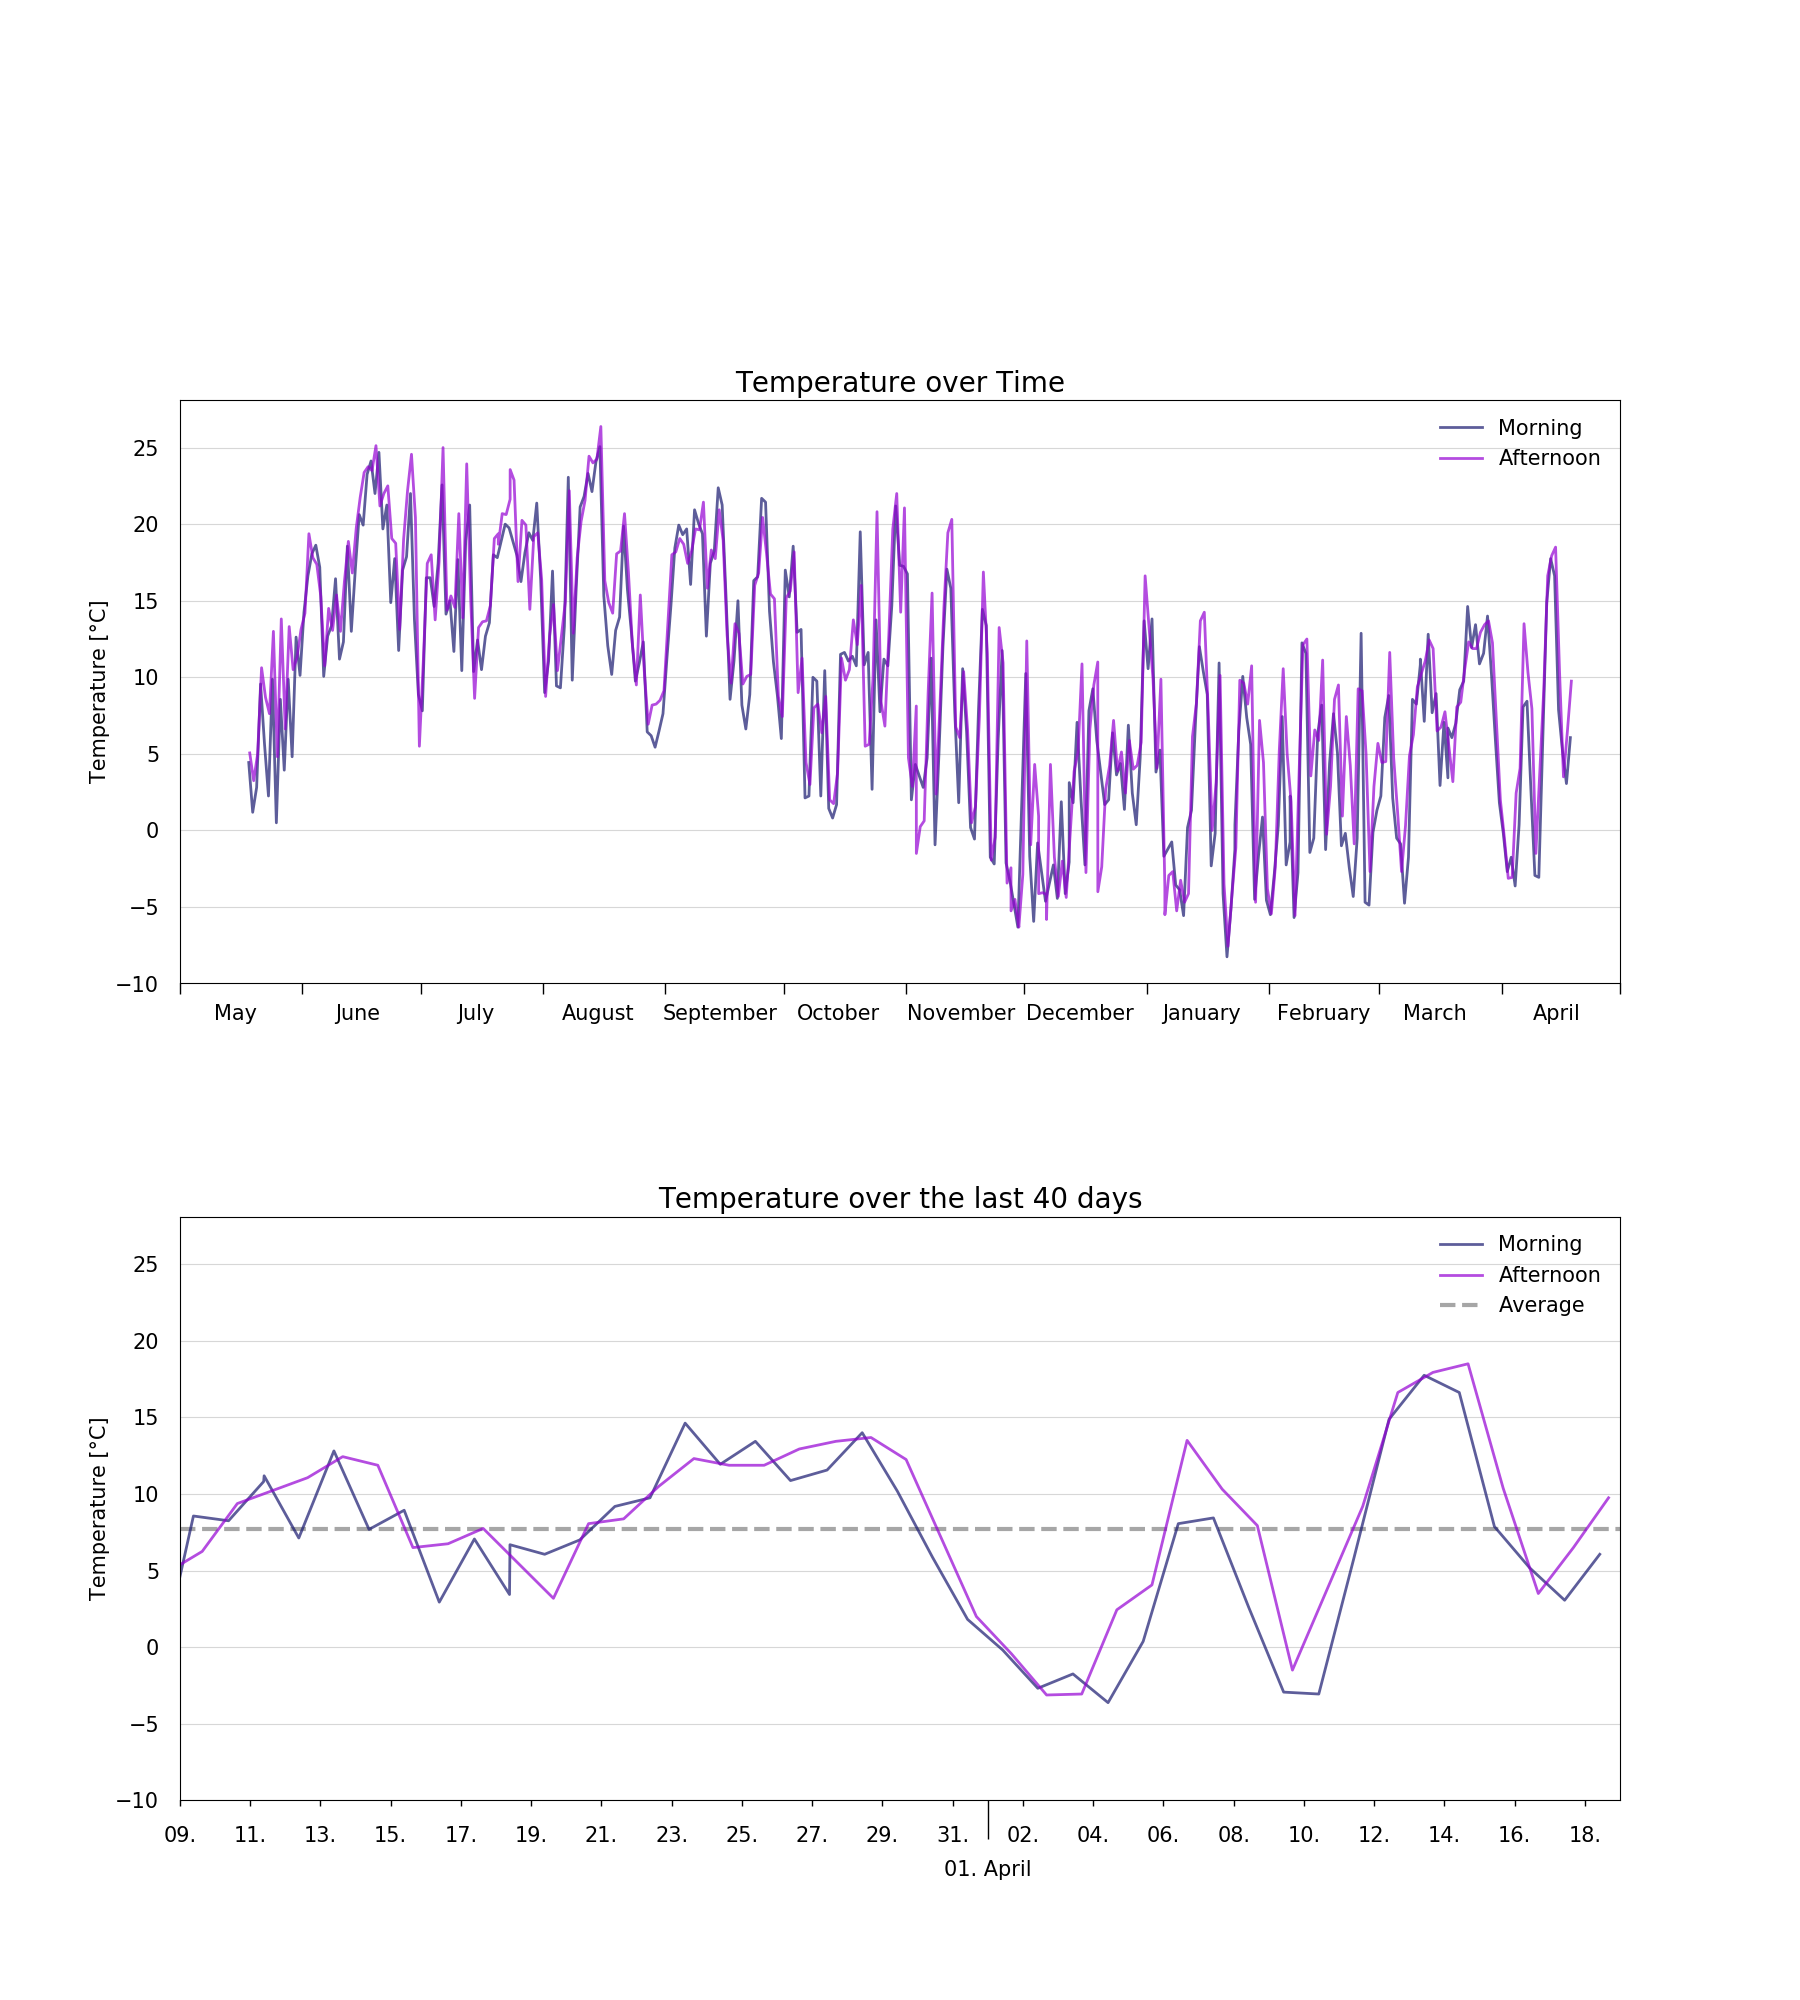
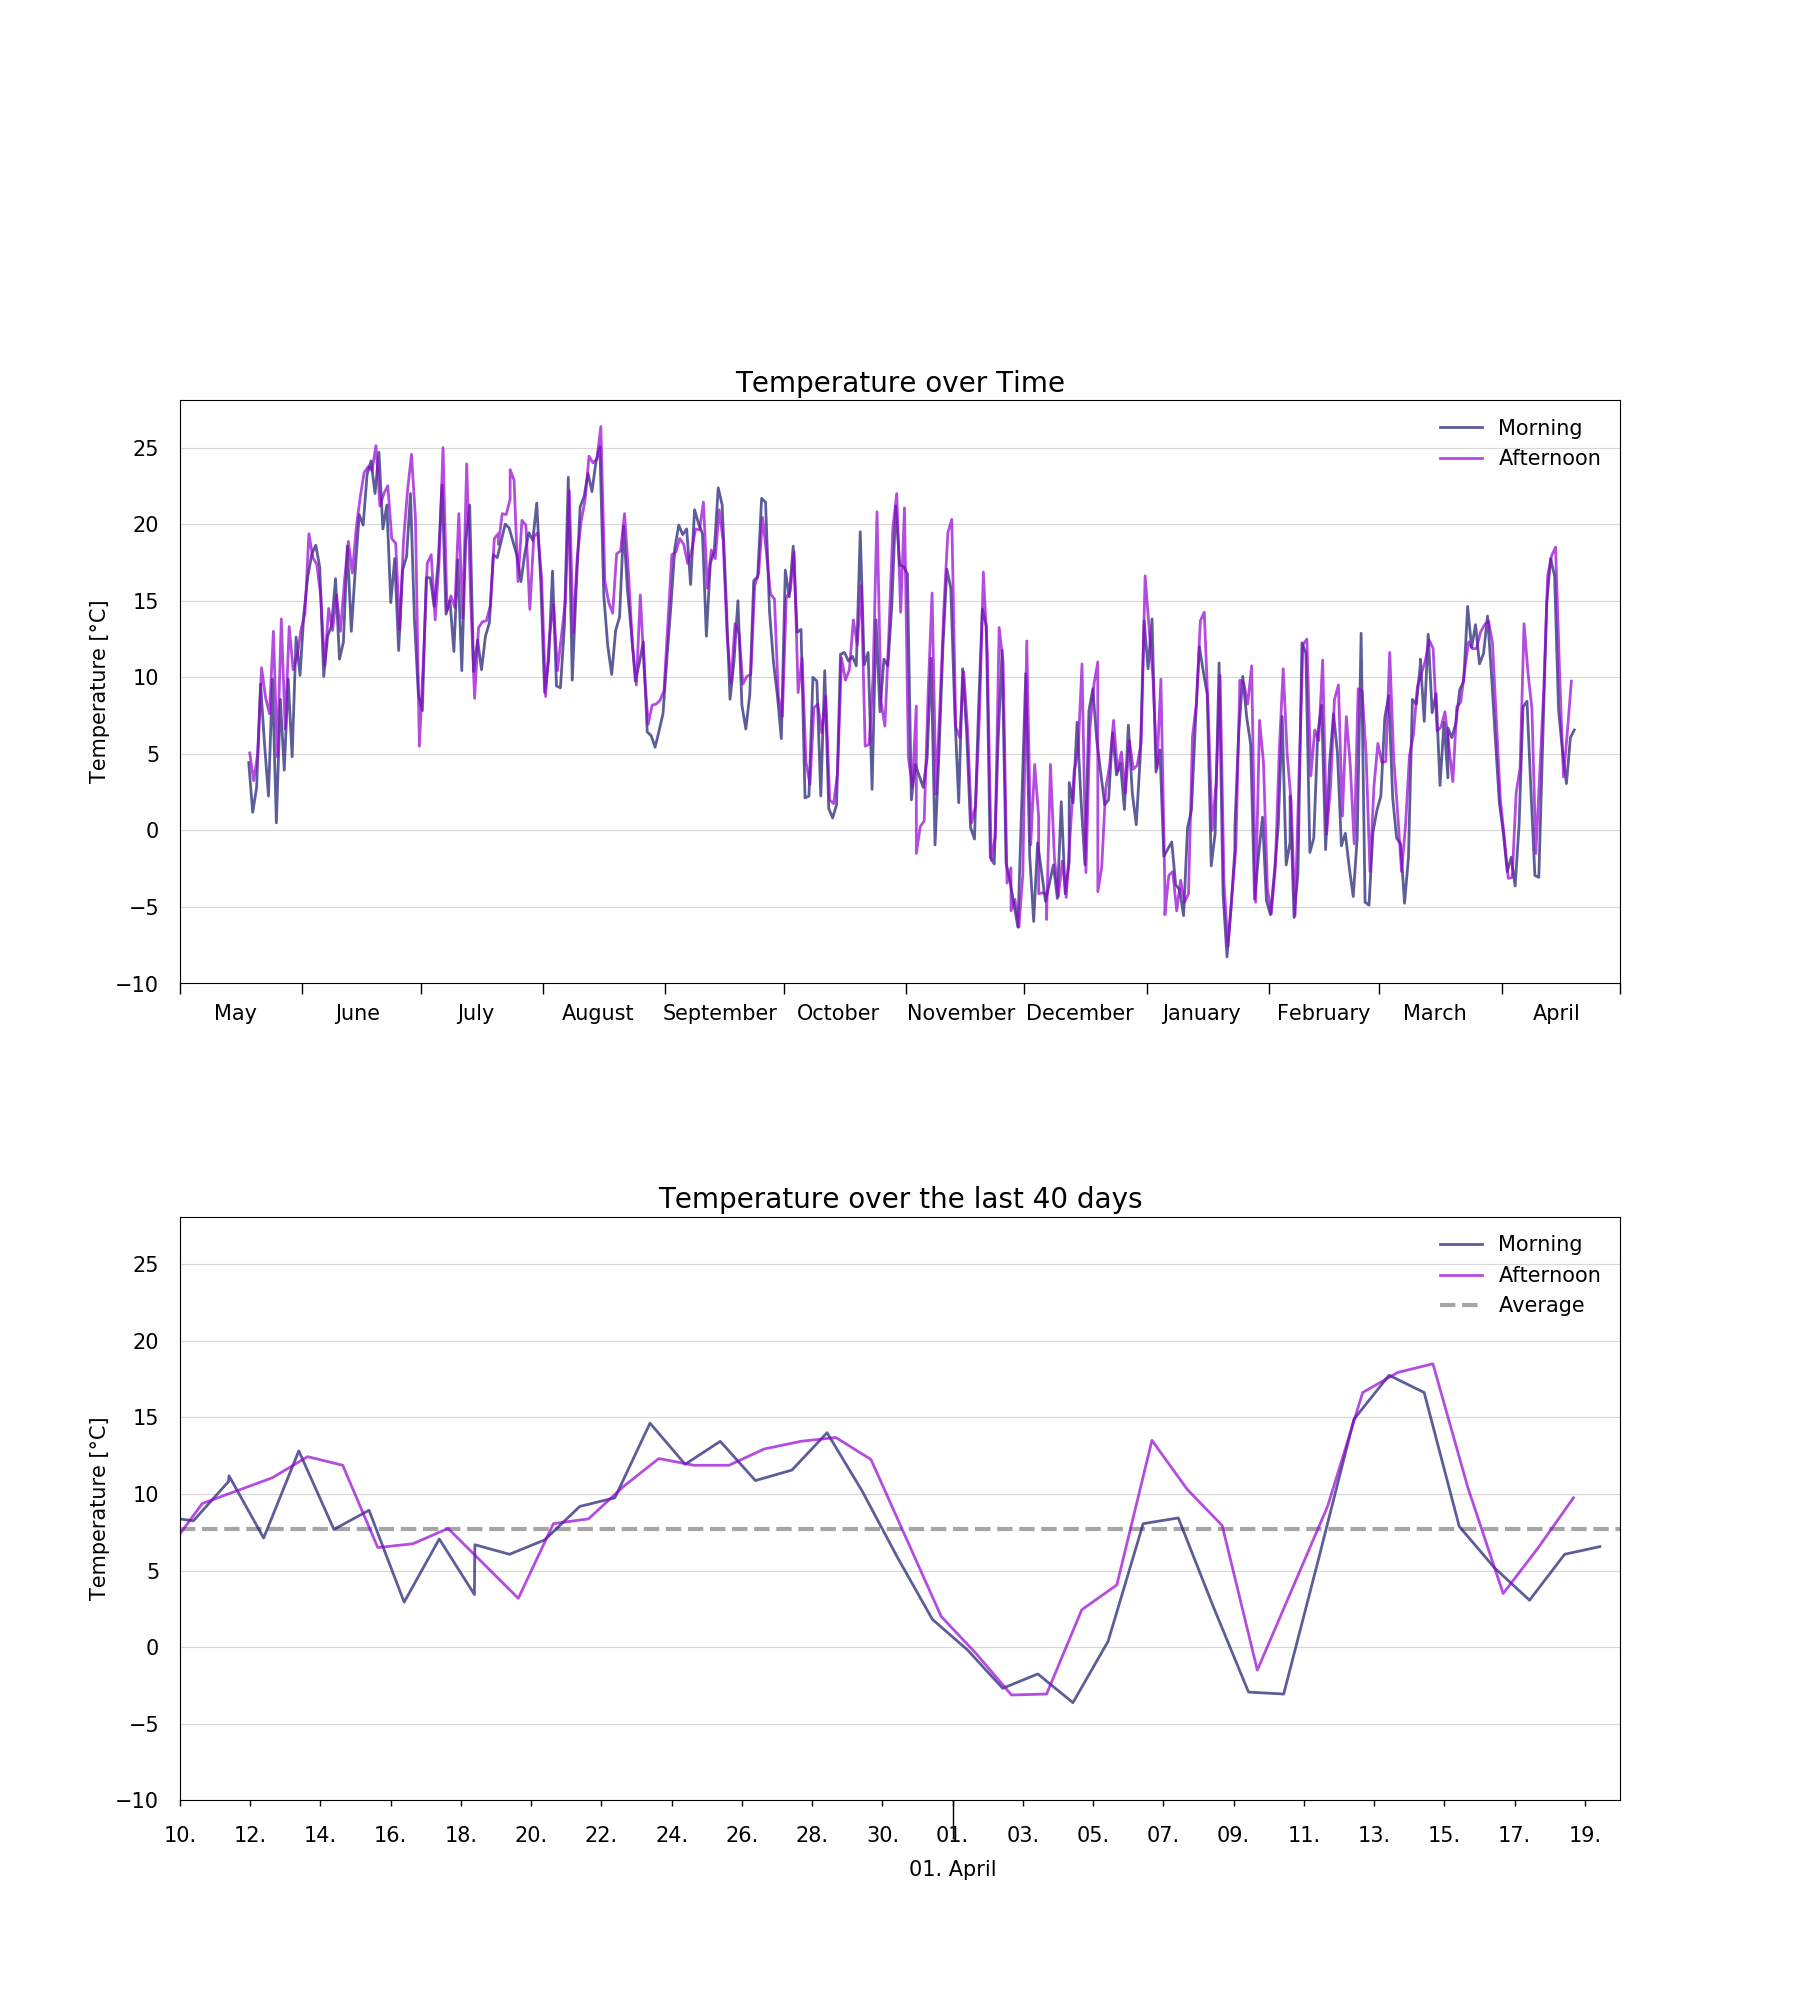
I'm a bot beep boop

diff --git a/resources/huette.md b/resources/huette.md
@@ -6,13 +6,13 @@ image: '/assets/img/'
 description: 'Live image from the Austrian alps'
 twitter_text: ' '
 ---
-## Latest image from 18 April 2022 at 16:11
+## Latest image from 19 April 2022 at 10:11
 <div class="huette">
   <div class="huette-image">
     <img src="{{ "/assets/img/huette.jpg" | prepend: site.baseurl }}">
   </div>
   <div class="huette-text">
-        <h2>Current Temperature: 9.75°C</h2>
+        <h2>Current Temperature: 6.562°C</h2>
         <p>A solar powered raspberry pi left alone in the wild is sending daily images and temperature data to this website. It should give you an impression about the current weather in the "Brixental".</p>
 
   </div>

diff --git a/rpi-script/huette.md b/rpi-script/huette.md
@@ -6,13 +6,13 @@ image: '/assets/img/'
 description: 'Live image from the Austrian alps'
 twitter_text: ' '
 ---
-## Latest image from 18 April 2022 at 16:11
+## Latest image from 19 April 2022 at 10:11
 <div class="huette">
   <div class="huette-image">
     <img src="{{ "/assets/img/huette.jpg" | prepend: site.baseurl }}">
   </div>
   <div class="huette-text">
-        <h2>Current Temperature: 9.75°C</h2>
+        <h2>Current Temperature: 6.562°C</h2>
         <p>A solar powered raspberry pi left alone in the wild is sending daily images and temperature data to this website. It should give you an impression about the current weather in the "Brixental".</p>
 
   </div>
